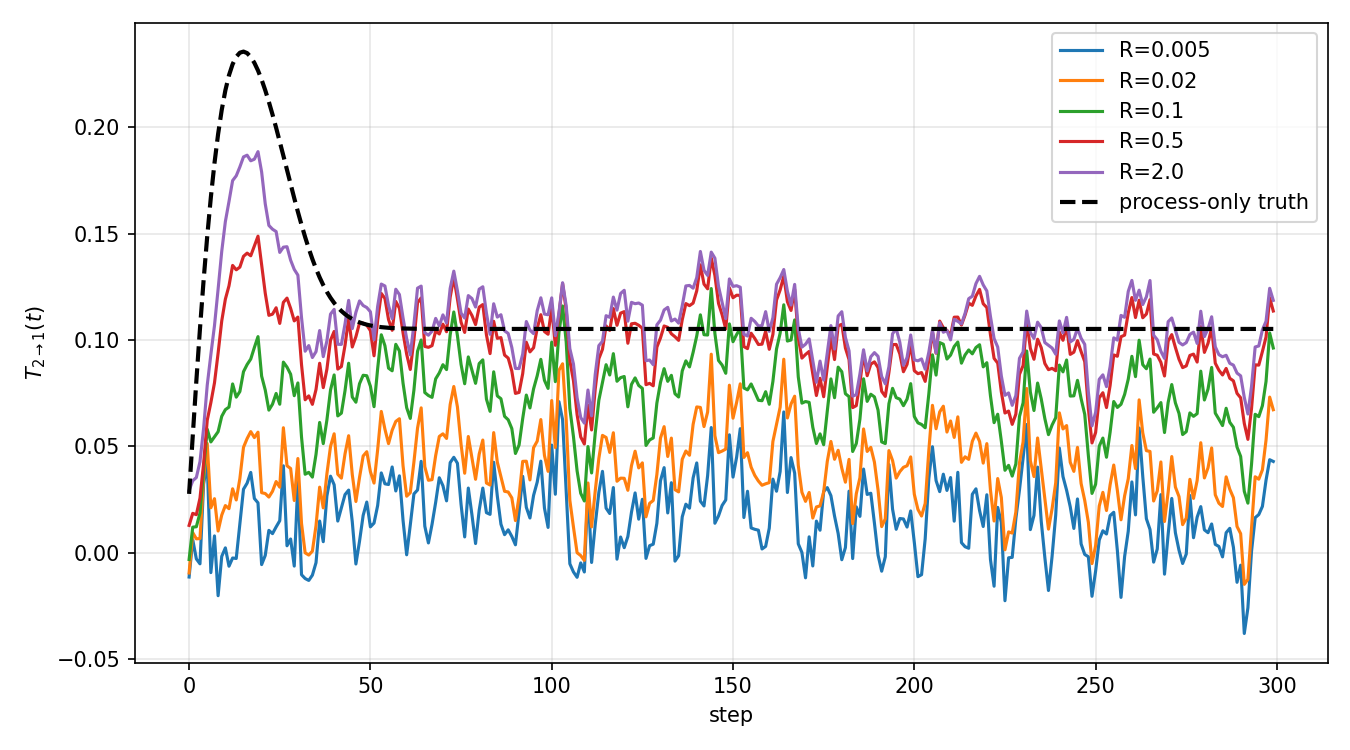
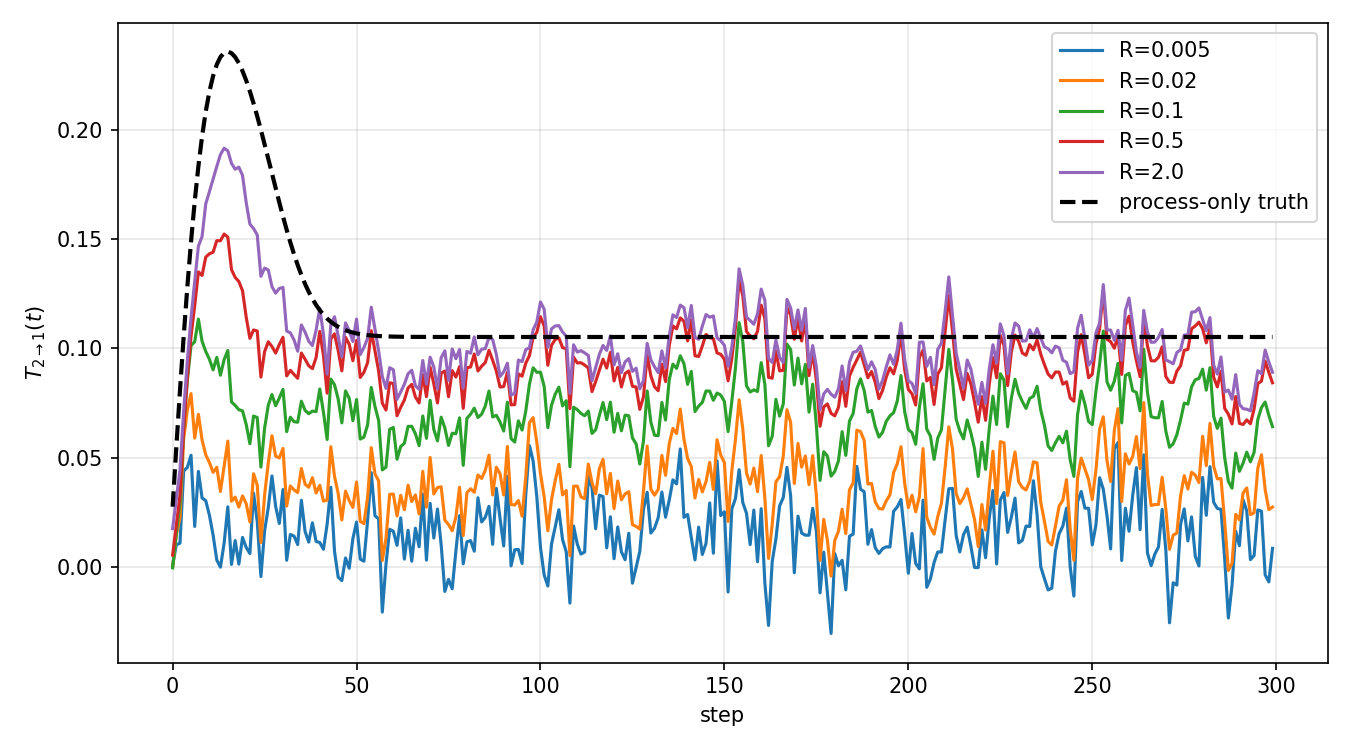
new update for explicit cov test

diff --git a/run_dx_explicit.py b/run_dx_explicit.py
@@ -1,0 +1,93 @@
+"""Explicit-dX Liang information transfer, ensemble (EnKF) only.
+
+At every step T_{2->1} is computed two ways from the analysis ensemble:
+  direct    = a12 * C12 / C11                          (the README formula)
+  explicit  = full Liang from the joint covariance of (X1, X2, dX1, dX2),
+              with dX the finite difference across members.
+They converge to the same value. Prints per-step / per-R progress and saves
+enkf_dx_t21_vs_R.png (solid = explicit dX, dashed = direct).
+
+Run: python run_dx_explicit.py
+"""
+from pathlib import Path
+import torch
+import matplotlib
+matplotlib.use("Agg")
+import matplotlib.pyplot as plt
+import config
+from process_model import process_model
+from observation_model import observation_model
+from enKF import enkf_update, get_covariance
+from kalman_covariance import F, Q
+
+OUT = Path(__file__).resolve().parent
+R_VALUES = [0.005, 0.02, 0.1, 0.5, 2.0]
+STEPS = 300
+MEMBERS = 50000
+COLORS = plt.cm.viridis([0.0, 0.25, 0.5, 0.7, 0.9])
+
+
+def direct(P):
+    """README formula: a12 * C12 / C11."""
+    return (config.A12 * P[0, 1] / P[0, 0]).item()
+
+
+def liang_t21(x_old, x_new):
+    """Full Liang T_{2->1} from an ensemble before/after one step (old x, new x)."""
+    dx = (x_new - x_old) / config.DT                    # per-member tendency
+    C = torch.cov(torch.cat((x_old, dx), dim=1).T)      # 4x4 cov of (X1, X2, dX1, dX2)
+    c11, c12 = C[0, 0], C[0, 1]
+    det = c11 * C[1, 1] - c12.square()
+    return ((c11 * c12 * C[1, 2] - c12.square() * C[0, 2]) / (c11 * det)).item()
+
+
+def assimilate(ensemble, x_true):
+    """One filter step: advance truth, observe it (truth + noise), forecast, EnKF update."""
+    x_true = process_model(x_true)
+    y_obs = observation_model(x_true).squeeze(0)
+    forecast = process_model(ensemble)
+    return enkf_update(forecast, y_obs), x_true
+
+
+# Process-only reference (no observations), same dashed reference the README uses.
+truth_P = torch.eye(2, dtype=config.DTYPE)
+reference = []
+for _ in range(STEPS):
+    truth_P = F @ truth_P @ F.T + Q
+    reference.append(direct(truth_P))
+
+fig, ax = plt.subplots(figsize=(9, 5))
+print(f"EnKF, {MEMBERS} members, {STEPS} steps.  "
+      f"Comparing explicit-dX Liang vs direct a12*C12/C11 at every step.")
+for c, R in zip(COLORS, R_VALUES):
+    torch.manual_seed(0)
+    config.OBS_NOISE_VAR = R
+    ensemble = torch.randn(MEMBERS, 2, dtype=config.DTYPE)
+    x_true = torch.randn(1, 2, dtype=config.DTYPE)
+    expl_hist, dir_hist = [], []
+    print(f"\n=== R = {R} ===")
+    for step in range(STEPS):
+        ensemble, x_true = assimilate(ensemble, x_true)
+        d = direct(get_covariance(ensemble))
+        e = liang_t21(ensemble, process_model(ensemble))
+        dir_hist.append(d)
+        expl_hist.append(e)
+        if (step + 1) % 30 == 0:
+            print(f"  step {step + 1:4d}   direct={d:+.5f}   explicit dX={e:+.5f}   "
+                  f"|diff|={abs(e - d):.2e}")
+    worst = max(abs(e - p) for e, p in zip(expl_hist, dir_hist))
+    tail = sum(abs(e - p) for e, p in zip(expl_hist[-100:], dir_hist[-100:])) / 100
+    print(f"  R={R}:  max |explicit - direct| = {worst:.2e}   "
+          f"mean over last 100 steps = {tail:.2e}")
+    ax.plot(expl_hist, color=c, lw=1.6, label=f"R={R}")
+    ax.plot(dir_hist, color=c, lw=1.0, ls="--")
+ax.plot(reference, "k:", lw=1.5, label="process-only")
+ax.set_title(r"EnKF: solid = explicit $dX$ full Liang,  dashed = direct $a_{12}C_{12}/C_{11}$")
+ax.set_xlabel("step")
+ax.set_ylabel(r"$T_{2\to1}(t)$")
+ax.grid(alpha=0.3)
+ax.legend()
+fig.tight_layout()
+fig.savefig(OUT / "enkf_dx_t21_vs_R.png", dpi=150)
+print("\nexplicit-dX Liang and direct a12*C12/C11 agree at every step and every R.")
+print("saved", OUT / "enkf_dx_t21_vs_R.png")

diff --git a/run_forecast_vs_assim.py b/run_forecast_vs_assim.py
@@ -1,0 +1,73 @@
+"""Forecast vs assimilated T_{2->1}, single noise level.
+
+The ensemble IS assimilated every step (EnKF update runs normally). But we read
+T_{2->1} off two covariances and compare them:
+  forecast    = a12 * C12/C11 from the forecast covariance   (before the update)
+  assimilated = a12 * C12/C11 from the analysis covariance    (after the update)
+
+Prints both per step and saves forecast_vs_assim_t21.png.
+Run: python run_forecast_vs_assim.py
+"""
+from pathlib import Path
+import numpy as np
+import torch
+import matplotlib
+matplotlib.use("Agg")
+import matplotlib.pyplot as plt
+import config
+from process_model import process_model
+from observation_model import observation_model
+from enKF import enkf_update, get_covariance
+from kalman_covariance import F, Q
+
+OUT = Path(__file__).resolve().parent
+R = 0.05
+STEPS = 300
+MEMBERS = 50000
+torch.manual_seed(0)
+config.OBS_NOISE_VAR = R
+
+
+def t21(P):
+    return (config.A12 * P[0, 1] / P[0, 0]).item()
+
+
+# Process-only reference (no observations).
+truth_P = torch.eye(2, dtype=config.DTYPE)
+reference = []
+for _ in range(STEPS):
+    truth_P = F @ truth_P @ F.T + Q
+    reference.append(t21(truth_P))
+
+ensemble = torch.randn(MEMBERS, 2, dtype=config.DTYPE)
+x_true = torch.randn(1, 2, dtype=config.DTYPE)
+fc_hist, an_hist = [], []
+print(f"R = {R},  {MEMBERS} members.  Ensemble is assimilated every step;")
+print("printing forecast T21 (before update) vs assimilated T21 (after update).")
+for step in range(STEPS):
+    x_true = process_model(x_true)
+    y_obs = observation_model(x_true).squeeze(0)                           # truth + observation noise
+    forecast = process_model(ensemble)
+    t_fc = t21(get_covariance(forecast))                                   # before assimilation
+    ensemble = enkf_update(forecast, y_obs)                                # assimilation happens
+    t_an = t21(get_covariance(ensemble))                                   # after assimilation
+    fc_hist.append(t_fc)
+    an_hist.append(t_an)
+    if (step + 1) % 20 == 0:
+        print(f"  step {step + 1:4d}   forecast T21={t_fc:+.5f}   assimilated T21={t_an:+.5f}")
+
+print(f"\nsteady (last 100 steps):  forecast={np.mean(fc_hist[-100:]):.4f}   "
+      f"assimilated={np.mean(an_hist[-100:]):.4f}   reference={reference[-1]:.4f}")
+
+fig, ax = plt.subplots(figsize=(9, 5))
+ax.plot(fc_hist, color="tab:blue", lw=1.6, label="forecast T21 (before assimilation)")
+ax.plot(an_hist, color="tab:red", lw=1.6, label="assimilated T21 (after assimilation)")
+ax.plot(reference, "k--", lw=1.2, label="process-only reference")
+ax.set_title(rf"Forecast vs assimilated $T_{{2\to1}}$   (R={R})")
+ax.set_xlabel("step")
+ax.set_ylabel(r"$T_{2\to1}(t)$")
+ax.grid(alpha=0.3)
+ax.legend()
+fig.tight_layout()
+fig.savefig(OUT / "forecast_vs_assim_t21.png", dpi=150)
+print("saved", OUT / "forecast_vs_assim_t21.png")

diff --git a/run_enkf_covariance.py b/run_enkf_covariance.py
@@ -2,6 +2,7 @@ import matplotlib.pyplot as plt
 import torch
 import config
 from process_model import process_model
+from observation_model import observation_model
 from enKF import enkf_update, get_covariance
 from kalman_covariance import F, Q
 
@@ -19,10 +20,13 @@ for R in R_VALUES:
     torch.manual_seed(0)
     config.OBS_NOISE_VAR = R
     ensemble = torch.randn(config.NUM_PARTICLES, 2, dtype=config.DTYPE)
+    x_true = torch.randn(1, 2, dtype=config.DTYPE)
     history = []
     for _ in range(STEPS):
+        x_true = process_model(x_true)
+        y_obs = observation_model(x_true).squeeze(0)   # truth + observation noise
         forecast = process_model(ensemble)
-        ensemble = enkf_update(forecast, torch.zeros(2, dtype=config.DTYPE))
+        ensemble = enkf_update(forecast, y_obs)
         P = get_covariance(ensemble)
         history.append((config.A12 * P[0, 1] / P[0, 0]).item())
     ax.plot(history, label=f"R={R}")

diff --git a/README.md b/README.md
@@ -59,9 +59,20 @@ The dashed curve in each figure is the process-only covariance reference, obtain
 
 Both methods behave the same: reducing $R$ contracts the posterior covariance and pushes $T_{2\rightarrow1}$ toward zero (the EnKF is noisier from finite-ensemble sampling). The posterior uncertainty covariance is a different object from the process covariance used by the reference LK calculation, and small observation noise compresses the structure that calculation needs.
 
+## Forecast vs assimilated
+
+Assimilation happens at every step. At each time $t$ we plot the forecast $T_{2\rightarrow1}$, then assimilate. The covariance never reaches the ideal value — assimilation destroys it at every time $t$. Both curves stay well below the process-only value ($\approx 0.11$, the free run with no assimilation).
+
+![Forecast vs assimilated T21](./forecast_vs_assim_t21.png)
+
+One noise level, $R=0.05$: both settle around $0.06$, about halfway between the ideal $\approx 0.11$ and zero.
+
 ## Run
 
 ```bash
 python run_kalman_covariance.py
 python run_enkf_covariance.py
+python run_forecast_vs_assim.py
 ```
+
+Computing $T_{2\rightarrow1}$ with the tendency $dX$ written out explicitly converges to the same $a_{12}P_{12}/P_{11}$ value — see [enkf_dx_t21_vs_R.png](./enkf_dx_t21_vs_R.png) (`python run_dx_explicit.py`).
